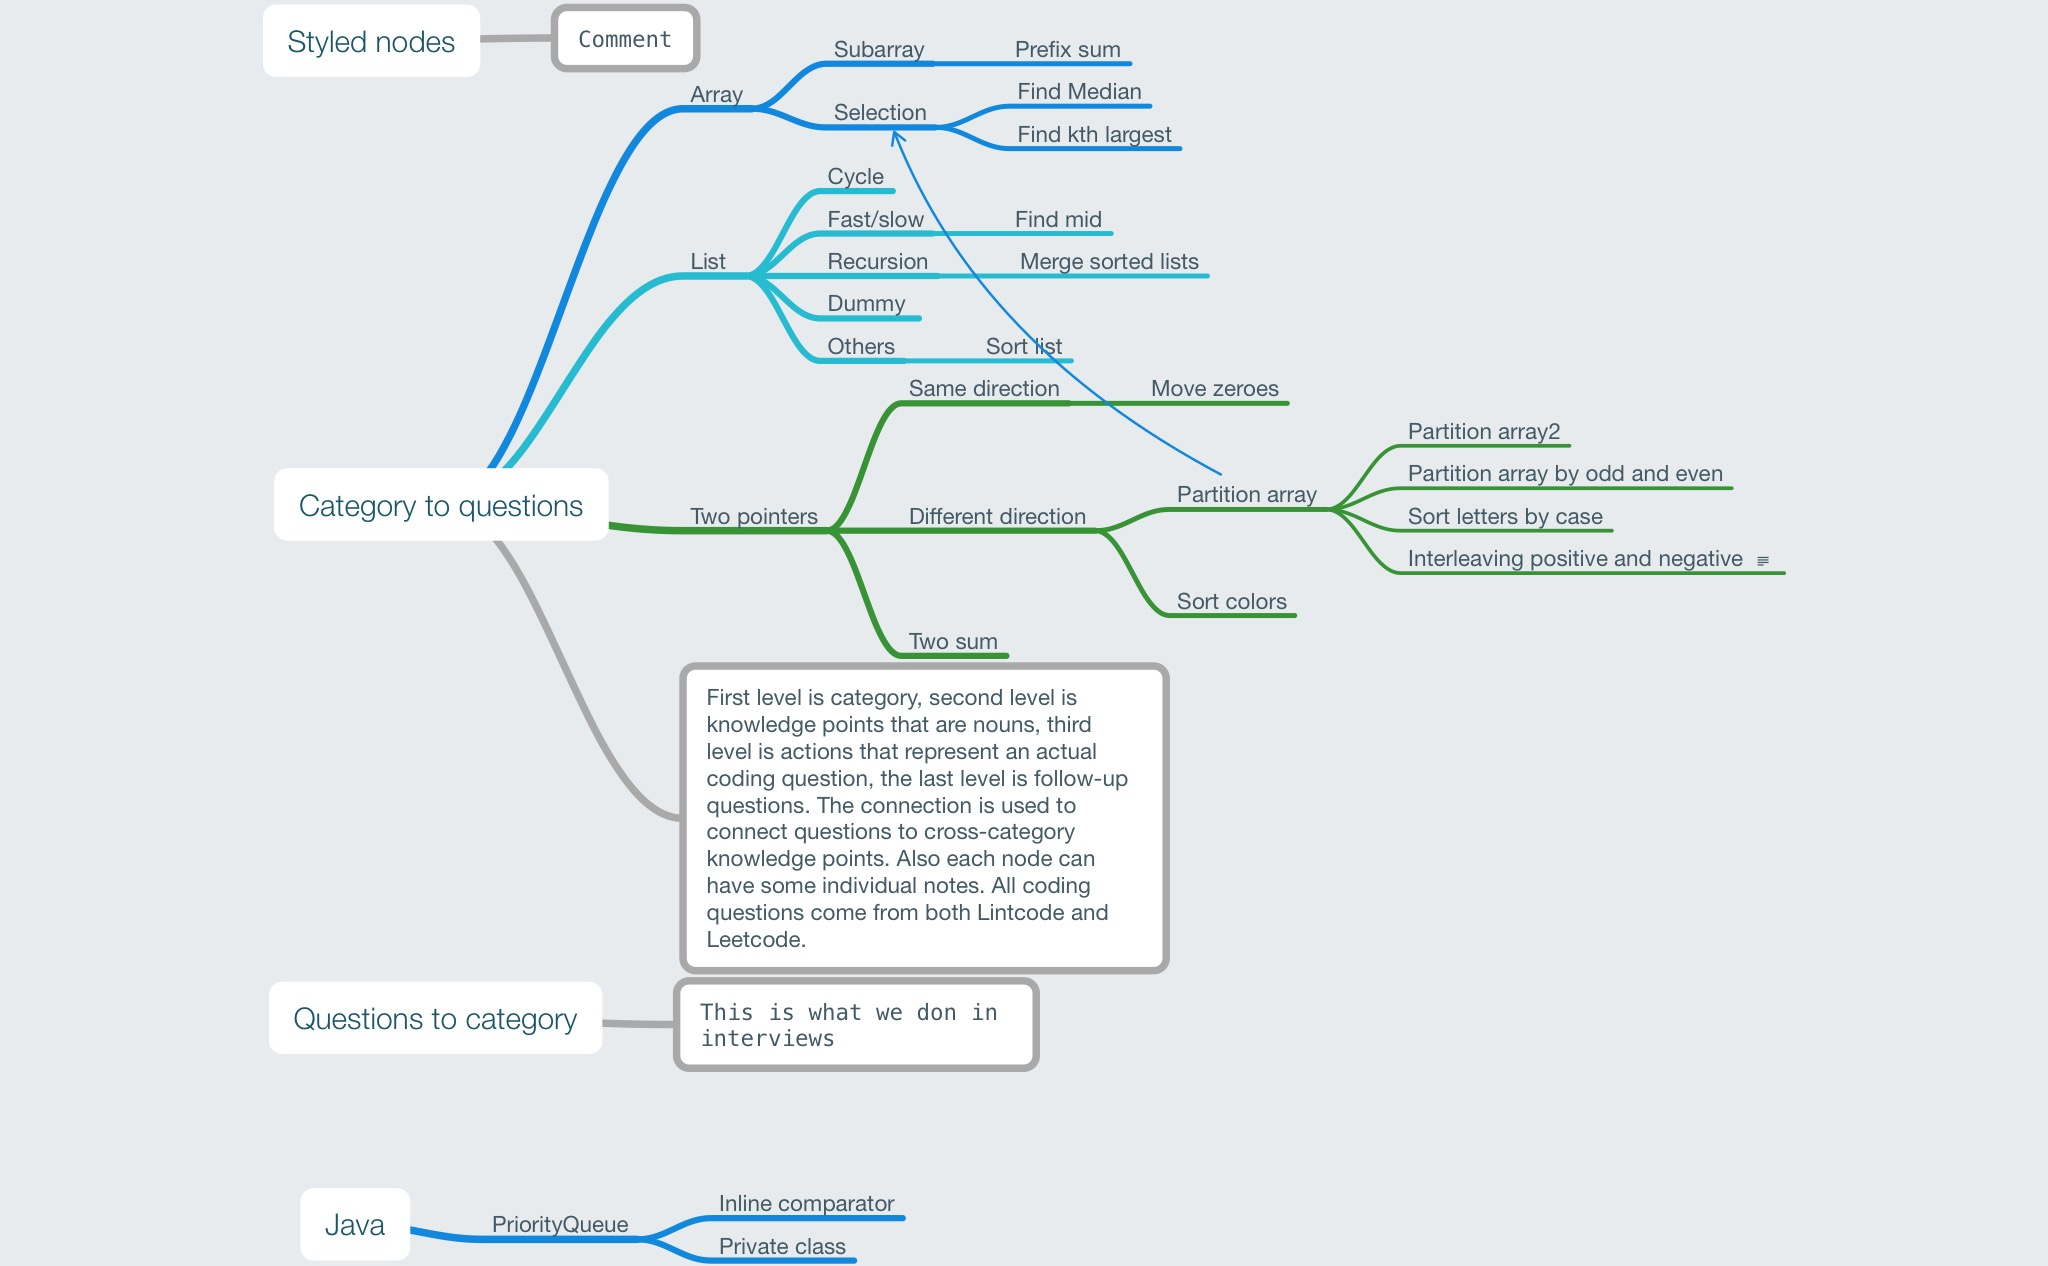
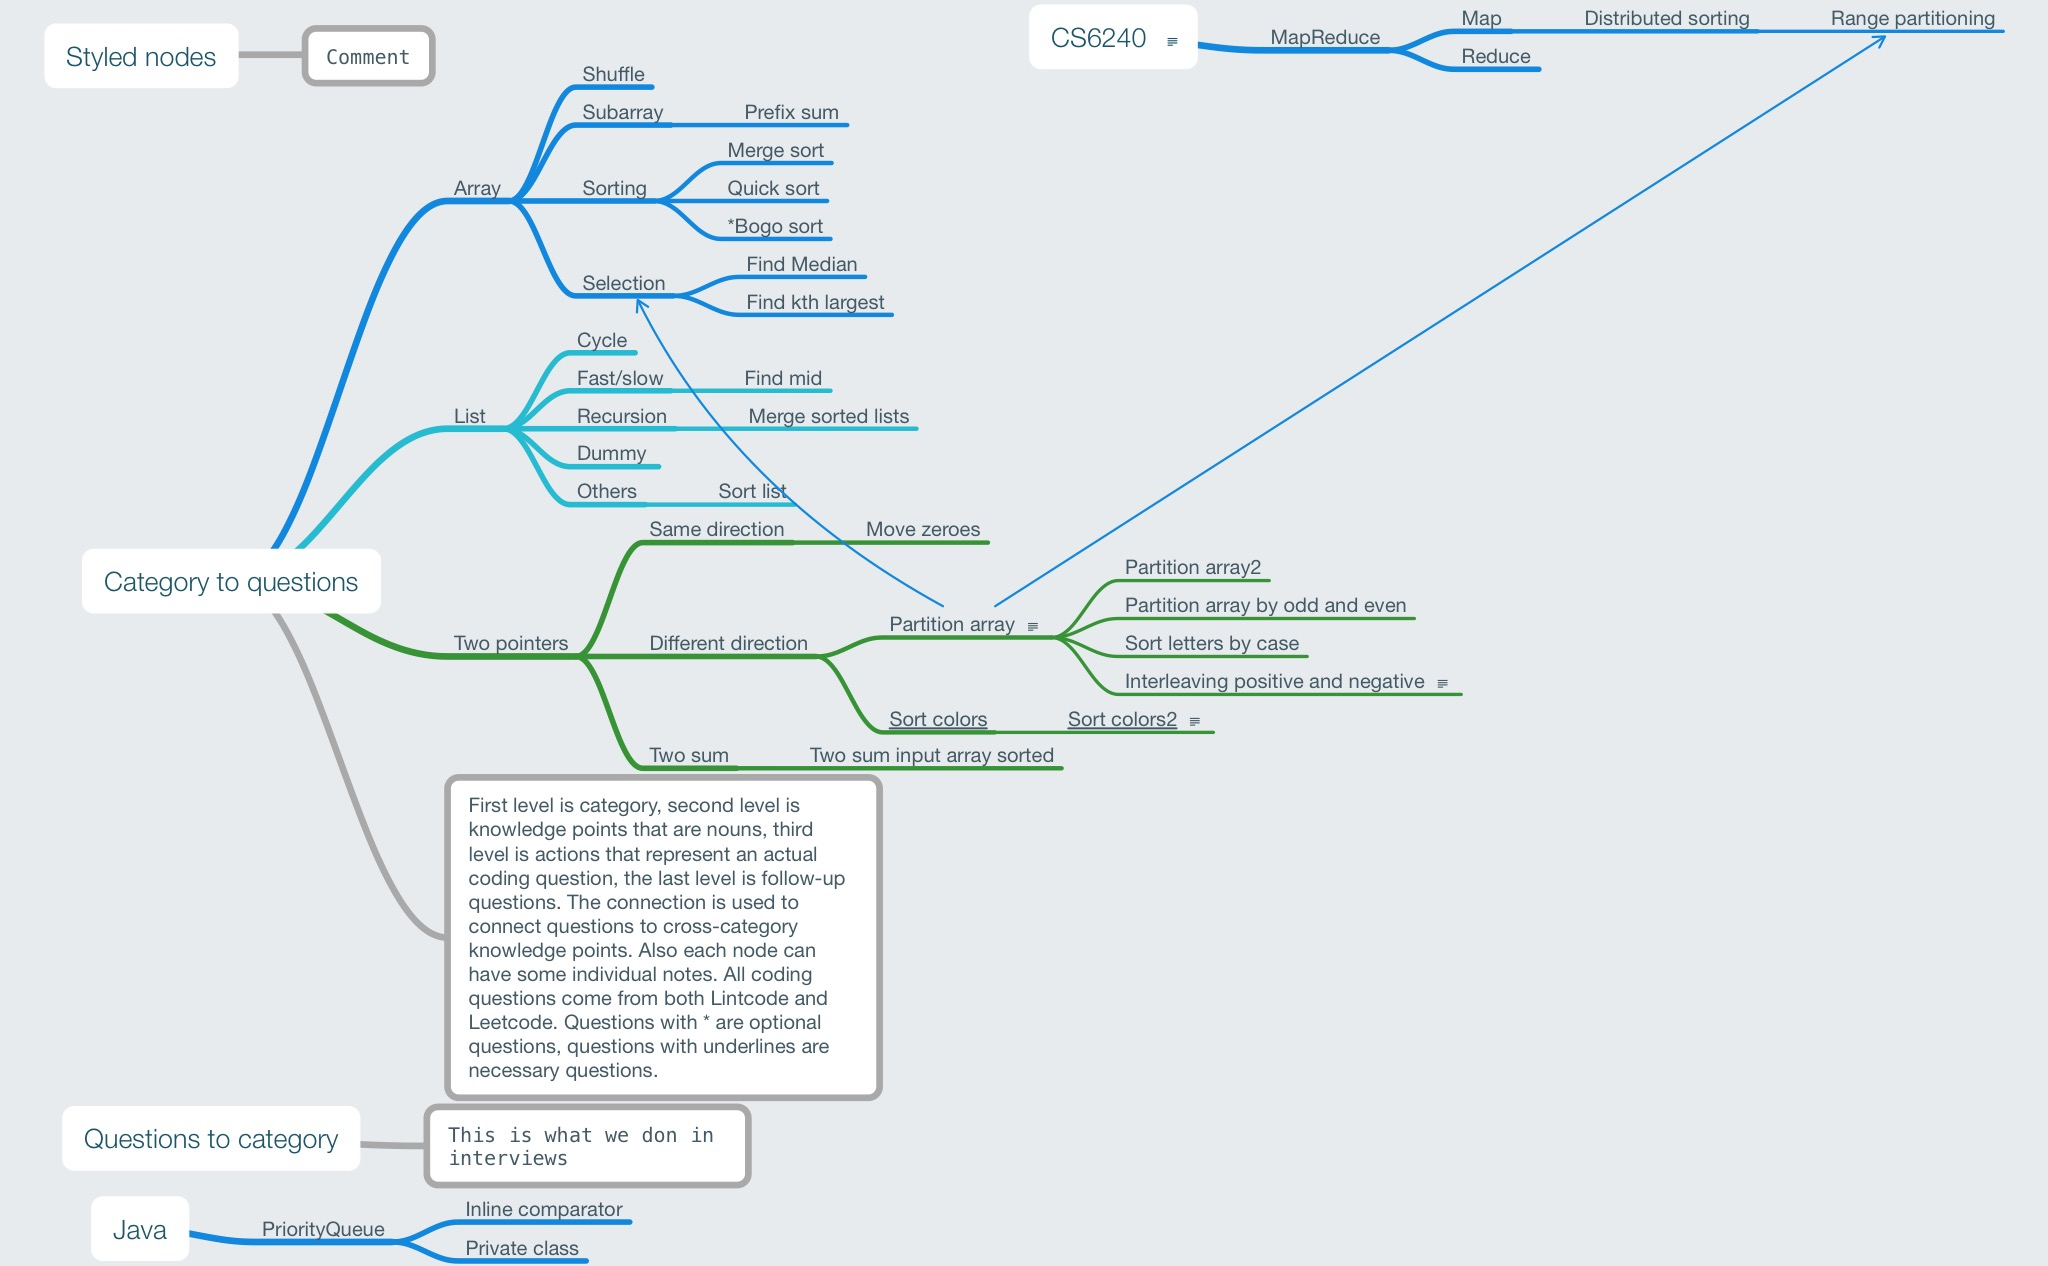
Added two sum input array sorted

diff --git a/TwoPointers/TwoSumInputArraySorted.md b/TwoPointers/TwoSumInputArraySorted.md
@@ -1,0 +1,35 @@
+# [TwoSumInputArraySorted](http://lintcode.com/en/problem/two-sum-input-array-is-sorted/#)
+
+## Question
+
+Given an array of integers that is already sorted in ascending order, find two numbers such that they add up to a specific target number.
+
+## Examples
+
+Given nums = [2, 7, 11, 15], target = 9
+return [1, 2]
+
+## Analysis
+
+Simply use two pointers.
+
+## Code
+
+```java
+public int[] twoSum(int[] nums, int target) {
+    // Simply use two pointers
+    int left = 0, right = nums.length - 1;
+    while (left + 1 < right) {
+        int current = nums[left] + nums[right];
+        if (current < target) {
+            left++;
+        } else if (current > target) {
+            right--;
+        } else {
+            return new int[]{left + 1, right + 1};
+        }
+    }
+
+    return new int[]{left + 1, right + 1};
+}
+```

diff --git a/TwoPointers/Readme.md b/TwoPointers/Readme.md
@@ -21,6 +21,13 @@
 ### Two sum
 
 - [TwoSumDataStructure](TwoSumDataStructure.md) ![must-have][must-have]
+- [TwoSumInputArraySorted](TwoSumInputArraySorted.md) ![easy][easy]
+
+## Notes
+
+- Why can we use HashMap to reduce running time and easily solve two sum?
+
+Because HashMap is about reducing running time based on the value content, and this question is exactly about value sum.
 
 [must-have]: https://jaywcjlove.github.io/sb/ico/min-bibei.svg
 [recommended]: https://jaywcjlove.github.io/sb/ico/min-tuijian.svg

diff --git a/TwoPointers/TwoSum.md b/TwoPointers/TwoSum.md
@@ -1,0 +1,19 @@
+# [TwoSum]()
+
+## Question
+
+
+
+## Examples
+
+
+
+## Analysis
+
+
+
+## Code
+
+```java
+
+```
